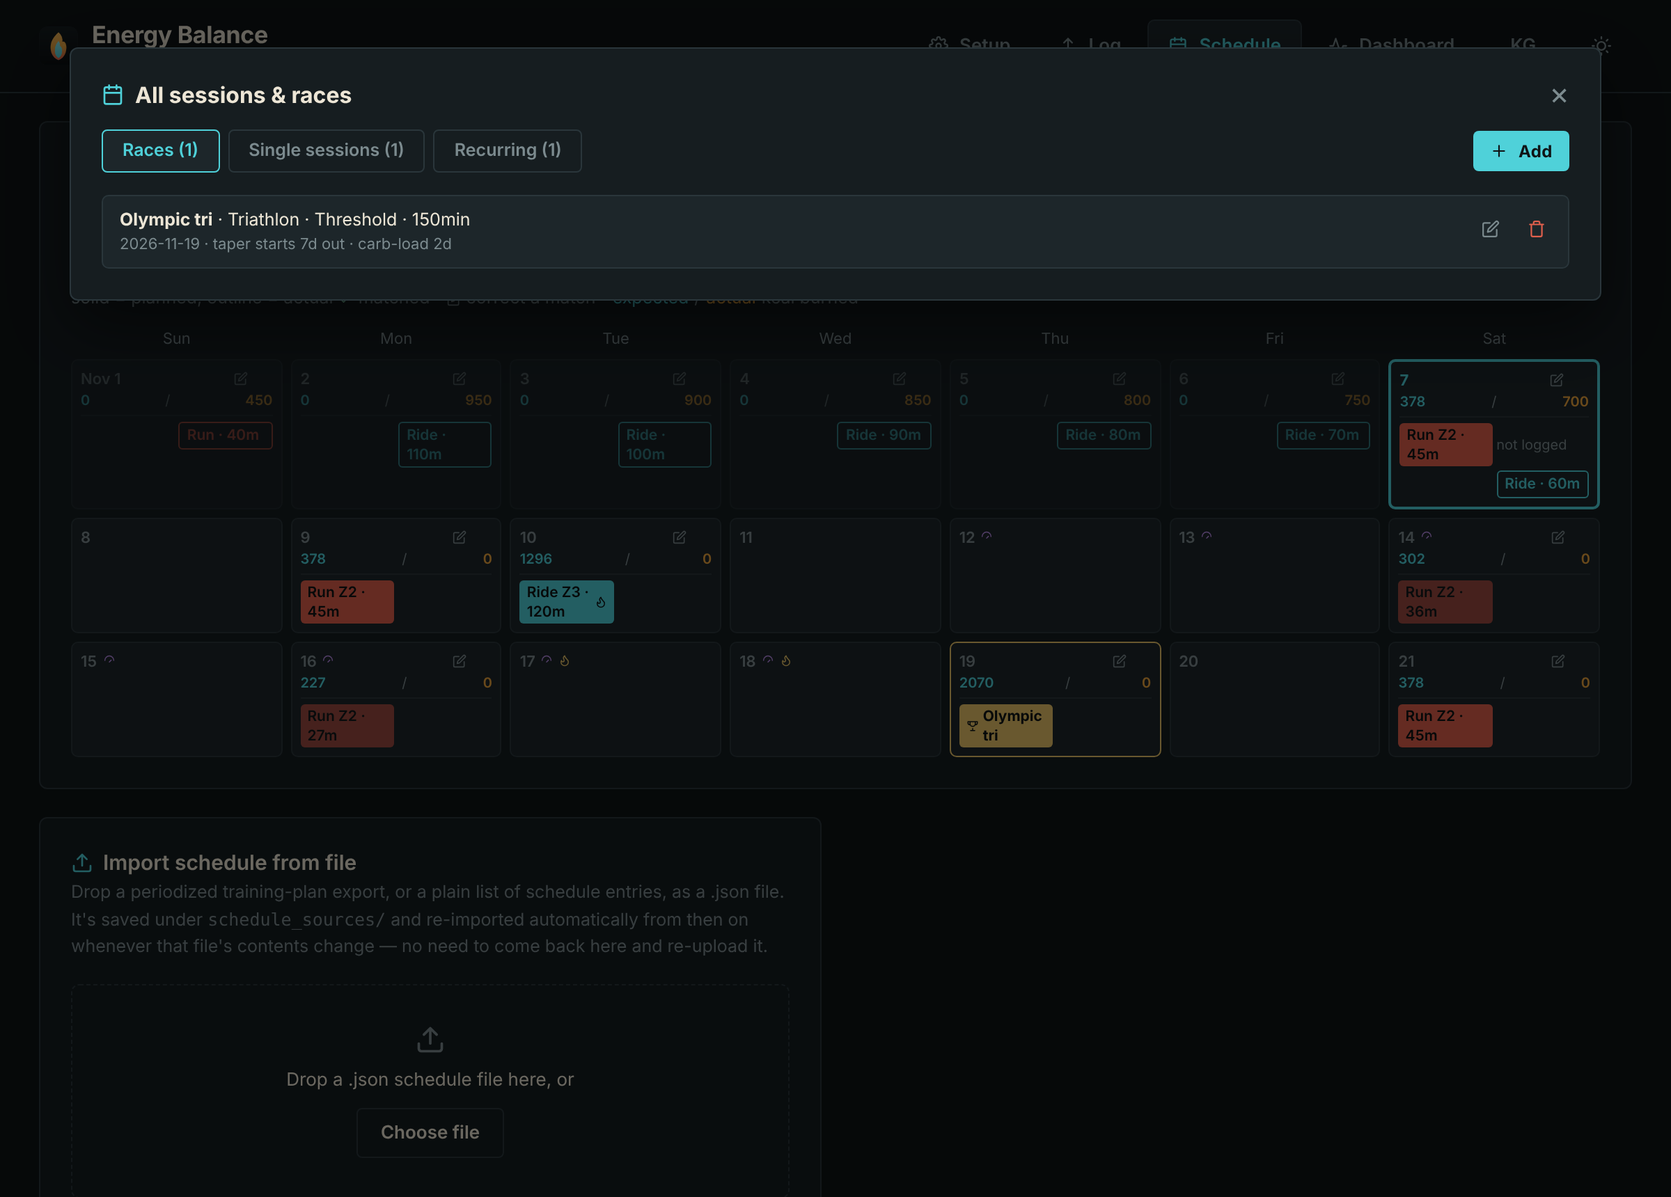
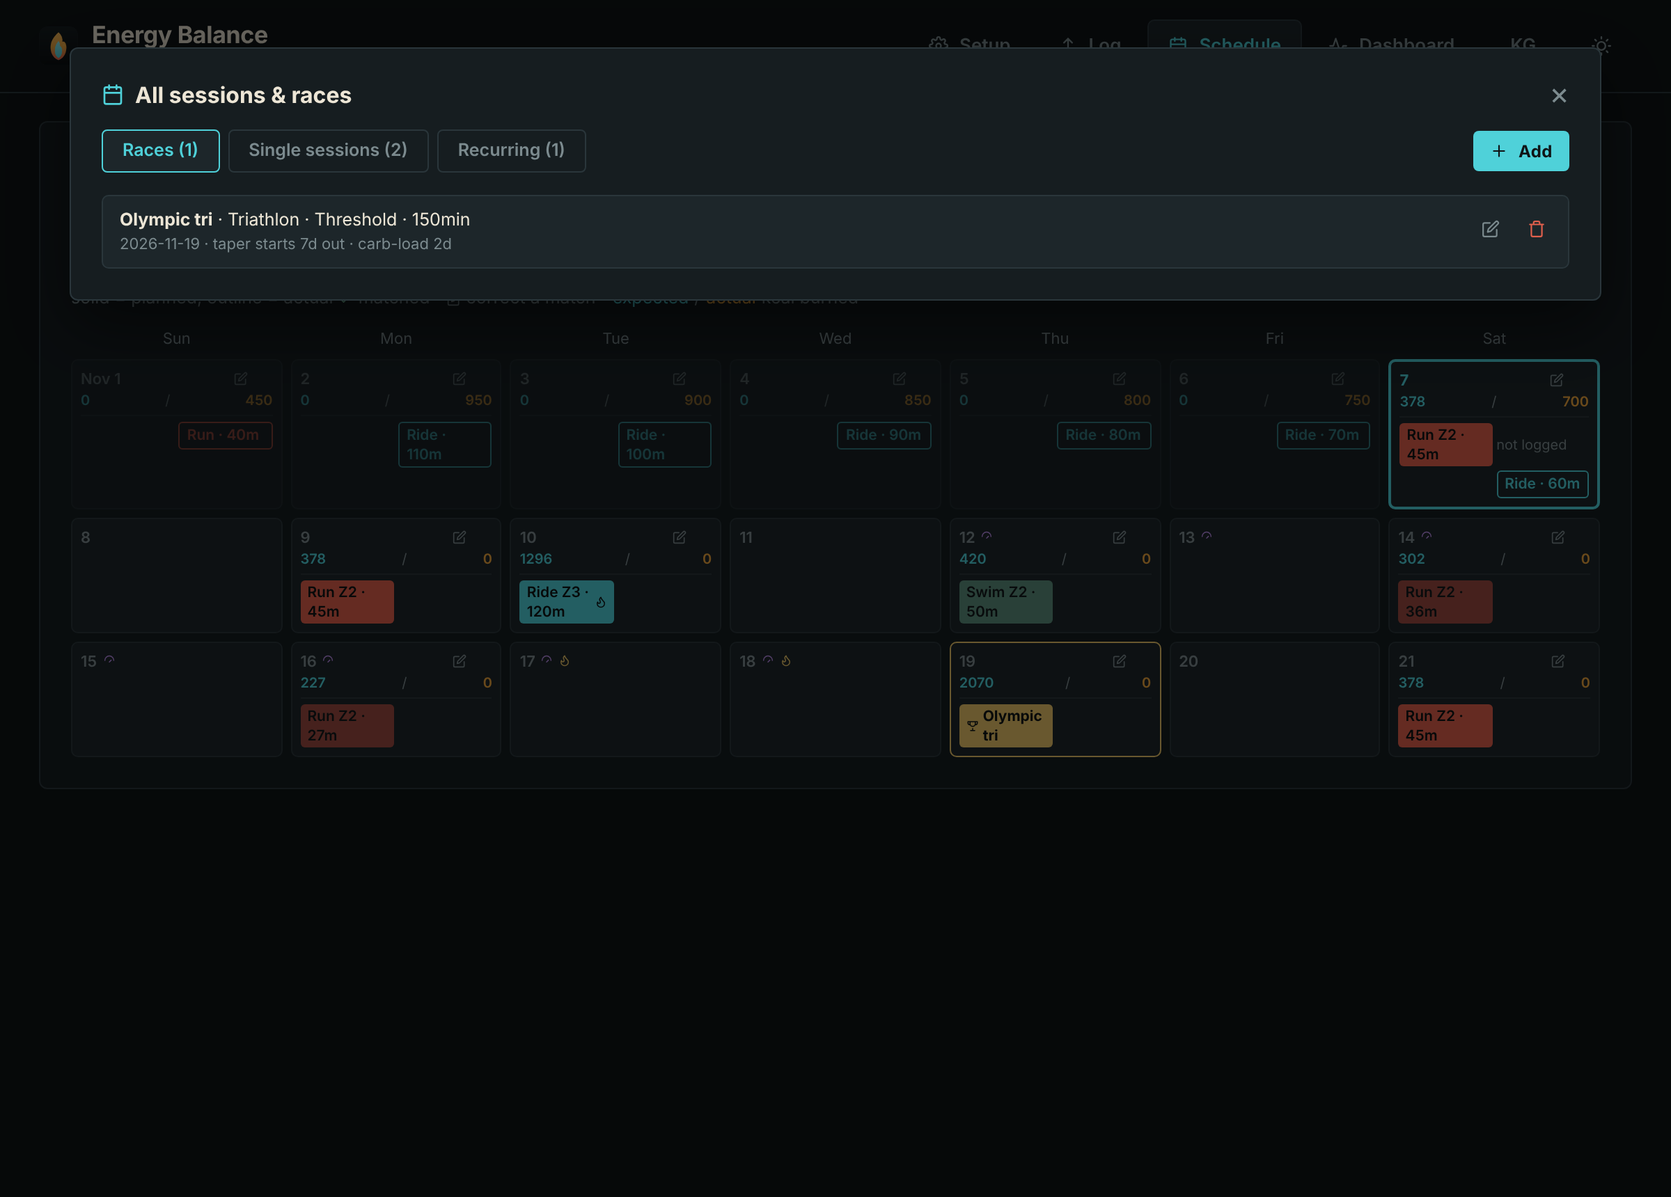
Move schedule import into Setup
The .json training-plan drop zone is now a Setup panel (Import schedule)
instead of a card on the Schedule page, which is now just the calendar.
Refresh the PR screenshots to match.

Claude-Session: https://claude.ai/code/session_016ADyii2jwnd8wXYzD1F69B

diff --git a/src/js/app.js b/src/js/app.js
@@ -1644,7 +1644,10 @@
         fetching: fetching || stravaFetching,
         fetchError,
         rangeDays,
-        setRangeDays
+        setRangeDays,
+        onImportScheduleFile: handleScheduleFile,
+        scheduleImportError,
+        scheduleImportNotice
       }
     ), tab === "import" && /* @__PURE__ */ React.createElement(
       ImportTab,
@@ -1681,9 +1684,6 @@
         onDelete: deleteScheduleEntry,
         stravaData,
         intervalsData,
-        onImportFile: handleScheduleFile,
-        importFileError: scheduleImportError,
-        importFileNotice: scheduleImportNotice,
         matchOverrides,
         onSetMatchOverride: setScheduleMatchOverride,
         profile,
@@ -1862,7 +1862,47 @@
       )
     );
   }
-  function SetupTab({ profile, setProfile, bmr, lastFetched, stravaStatus, stravaError, stravaLastFetched, stravaSyncedCount, intervalsStatus, intervalsSyncedCount, goalParams, trendCorrection, weightTrendAvg, weightGoalStatus, imCal, imCalibrating, imCalError, onRecalibrate, imGoalFloor, onFetch, fetching, fetchError, rangeDays, setRangeDays }) {
+  function ScheduleImportPanel({ onImportFile, importFileError, importFileNotice }) {
+    const [dragOver, setDragOver] = useState(false);
+    return /* @__PURE__ */ React.createElement(React.Fragment, null, /* @__PURE__ */ React.createElement("div", { style: { fontSize: 12.5, color: dim, marginBottom: 16, lineHeight: 1.5 } }, "Drop a periodized training-plan export, or a plain list of schedule entries, as a .json file. It's saved under ", /* @__PURE__ */ React.createElement("code", null, "schedule_sources/"), " and re-imported automatically from then on whenever that file's contents change \u2014 no need to come back here and re-upload it."), /* @__PURE__ */ React.createElement(
+      "div",
+      {
+        onDragOver: (e) => {
+          e.preventDefault();
+          setDragOver(true);
+        },
+        onDragLeave: () => setDragOver(false),
+        onDrop: (e) => {
+          e.preventDefault();
+          setDragOver(false);
+          if (e.dataTransfer.files[0]) onImportFile(e.dataTransfer.files[0]);
+        },
+        style: {
+          border: `1.5px dashed ${dragOver ? cyan : line}`,
+          borderRadius: 6,
+          padding: "28px 20px",
+          textAlign: "center",
+          background: dragOver ? "rgba(79,209,217,0.05)" : "transparent",
+          transition: "all 0.15s"
+        }
+      },
+      /* @__PURE__ */ React.createElement("div", { style: { display: "flex", justifyContent: "center", marginBottom: 10 } }, /* @__PURE__ */ React.createElement(Icon, { path: ICONS.upload, size: 22, color: dim })),
+      /* @__PURE__ */ React.createElement("div", { style: { fontSize: 13, marginBottom: 12 } }, "Drop a .json schedule file here, or"),
+      /* @__PURE__ */ React.createElement("label", { className: "btn-ghost", style: { display: "inline-block" } }, "Choose file", /* @__PURE__ */ React.createElement(
+        "input",
+        {
+          type: "file",
+          accept: ".json,application/json",
+          style: { display: "none" },
+          onChange: (e) => {
+            if (e.target.files[0]) onImportFile(e.target.files[0]);
+            e.target.value = "";
+          }
+        }
+      ))
+    ), importFileError && /* @__PURE__ */ React.createElement(Banner, { kind: "error" }, importFileError), !importFileError && importFileNotice && /* @__PURE__ */ React.createElement(Banner, { kind: "success" }, importFileNotice));
+  }
+  function SetupTab({ profile, setProfile, bmr, lastFetched, stravaStatus, stravaError, stravaLastFetched, stravaSyncedCount, intervalsStatus, intervalsSyncedCount, goalParams, trendCorrection, weightTrendAvg, weightGoalStatus, imCal, imCalibrating, imCalError, onRecalibrate, imGoalFloor, onFetch, fetching, fetchError, rangeDays, setRangeDays, onImportScheduleFile, scheduleImportError, scheduleImportNotice }) {
     var _a, _b, _c;
     const set = (k) => (e) => setProfile((p) => ({ ...p, [k]: e.target.value }));
     const units = profile.units || "metric";
@@ -1904,6 +1944,14 @@
         keywords: "pull fetch days history range strava intervals sync",
         summary: `${rangeDays} days`,
         content: /* @__PURE__ */ React.createElement(React.Fragment, null, /* @__PURE__ */ React.createElement("div", { style: { fontSize: 12.5, color: dim, marginBottom: 16, lineHeight: 1.5 } }, "How many days of history the dashboard covers, and how far back a manual pull reaches into Strava and intervals.icu. Data is cached server-side by date, so a pull only re-fetches today plus any missing days."), /* @__PURE__ */ React.createElement("div", { style: { display: "flex", alignItems: "flex-end", gap: 14, flexWrap: "wrap" } }, /* @__PURE__ */ React.createElement(Field, { label: "Days of training data to pull" }, /* @__PURE__ */ React.createElement("select", { className: "inp", style: { width: 140 }, value: rangeDays, onChange: (e) => setRangeDays(parseInt(e.target.value)) }, /* @__PURE__ */ React.createElement("option", { value: 14 }, "14 days"), /* @__PURE__ */ React.createElement("option", { value: 21 }, "21 days"), /* @__PURE__ */ React.createElement("option", { value: 30 }, "30 days"), /* @__PURE__ */ React.createElement("option", { value: 60 }, "60 days"))), /* @__PURE__ */ React.createElement("button", { className: "btn-primary", onClick: onFetch, disabled: fetching }, /* @__PURE__ */ React.createElement(Icon, { path: ICONS.refresh, size: 13, color: ink }), fetching ? "Fetching\u2026" : "Pull training data")), lastFetched && /* @__PURE__ */ React.createElement("div", { style: { marginTop: 10, fontSize: 11.5, color: dim, fontFamily: mono } }, "intervals last synced ", new Date(lastFetched).toLocaleString()), fetchError && /* @__PURE__ */ React.createElement(Banner, { kind: "error" }, fetchError))
+      },
+      {
+        id: "schedule-import",
+        title: "Import schedule",
+        icon: ICONS.calendar,
+        keywords: "training plan json file upload schedule_sources sessions races",
+        summary: scheduleImportError ? "import failed" : null,
+        content: /* @__PURE__ */ React.createElement(ScheduleImportPanel, { onImportFile: onImportScheduleFile, importFileError: scheduleImportError, importFileNotice: scheduleImportNotice })
       },
       {
         id: "strava",
@@ -2804,9 +2852,6 @@
     onDelete,
     stravaData,
     intervalsData,
-    onImportFile,
-    importFileError,
-    importFileNotice,
     matchOverrides,
     onSetMatchOverride,
     profile,
@@ -2818,7 +2863,6 @@
     const [editor, setEditor] = useState(null);
     const [confirmDelete, setConfirmDelete] = useState(null);
     const [listView, setListView] = useState(null);
-    const [scheduleDragOver, setScheduleDragOver] = useState(false);
     const [editingMatchDay, setEditingMatchDay] = useState(null);
     const showActual = profile.scheduleShowActual !== false;
     const showCalories = profile.scheduleShowCalories !== false;
@@ -3170,43 +3214,7 @@
           }
         ), a.activityType, " \xB7 ", a.durationMin, "m \xB7 ", a.name)))), mode === "auto" && /* @__PURE__ */ React.createElement("div", { style: { fontSize: 10.5, color: dim, marginTop: 4 } }, "Auto-detected", actualNames.length ? ` \u2014 matched to "${actualNames.join('", "')}"` : " \u2014 no match found"));
       }), day.dayActuals.length === 0 && day.pairs.length > 0 && /* @__PURE__ */ React.createElement("div", { style: { fontSize: 11, color: dim } }, "No Strava/intervals.icu activities synced for this day.")));
-    })(), /* @__PURE__ */ React.createElement("div", { className: "card", style: { padding: 22 } }, /* @__PURE__ */ React.createElement("div", { style: { fontFamily: grotesk, fontWeight: 600, fontSize: 15, marginBottom: 4, display: "flex", alignItems: "center", gap: 7 } }, /* @__PURE__ */ React.createElement(Icon, { path: ICONS.upload, size: 16, color: cyan }), " Import schedule from file"), /* @__PURE__ */ React.createElement("div", { style: { fontSize: 12.5, color: dim, marginBottom: 16, lineHeight: 1.5 } }, "Drop a periodized training-plan export, or a plain list of schedule entries, as a .json file. It's saved under ", /* @__PURE__ */ React.createElement("code", null, "schedule_sources/"), " and re-imported automatically from then on whenever that file's contents change \u2014 no need to come back here and re-upload it."), /* @__PURE__ */ React.createElement(
-      "div",
-      {
-        onDragOver: (e) => {
-          e.preventDefault();
-          setScheduleDragOver(true);
-        },
-        onDragLeave: () => setScheduleDragOver(false),
-        onDrop: (e) => {
-          e.preventDefault();
-          setScheduleDragOver(false);
-          if (e.dataTransfer.files[0]) onImportFile(e.dataTransfer.files[0]);
-        },
-        style: {
-          border: `1.5px dashed ${scheduleDragOver ? cyan : line}`,
-          borderRadius: 6,
-          padding: "28px 20px",
-          textAlign: "center",
-          background: scheduleDragOver ? "rgba(79,209,217,0.05)" : "transparent",
-          transition: "all 0.15s"
-        }
-      },
-      /* @__PURE__ */ React.createElement("div", { style: { display: "flex", justifyContent: "center", marginBottom: 10 } }, /* @__PURE__ */ React.createElement(Icon, { path: ICONS.upload, size: 22, color: dim })),
-      /* @__PURE__ */ React.createElement("div", { style: { fontSize: 13, marginBottom: 12 } }, "Drop a .json schedule file here, or"),
-      /* @__PURE__ */ React.createElement("label", { className: "btn-ghost", style: { display: "inline-block" } }, "Choose file", /* @__PURE__ */ React.createElement(
-        "input",
-        {
-          type: "file",
-          accept: ".json,application/json",
-          style: { display: "none" },
-          onChange: (e) => {
-            if (e.target.files[0]) onImportFile(e.target.files[0]);
-            e.target.value = "";
-          }
-        }
-      ))
-    ), importFileError && /* @__PURE__ */ React.createElement(Banner, { kind: "error" }, importFileError), !importFileError && importFileNotice && /* @__PURE__ */ React.createElement(Banner, { kind: "success" }, importFileNotice)), listView && /* @__PURE__ */ React.createElement(Modal, { title: "All sessions & races", onClose: () => setListView(null), icon: ICONS.calendar }, /* @__PURE__ */ React.createElement("div", { style: { display: "flex", gap: 6, marginBottom: 16, flexWrap: "wrap", alignItems: "center" } }, [["races", `Races (${races.length})`], ["single", `Single sessions (${singles.length})`], ["recurring", `Recurring (${recurring.length})`]].map(([id, label]) => /* @__PURE__ */ React.createElement("button", { key: id, className: `subtab ${listView === id ? "active" : ""}`, onClick: () => setListView(id) }, label)), /* @__PURE__ */ React.createElement("button", { className: "btn-primary", onClick: () => openAdd(null), style: { padding: "7px 12px", fontSize: 12, marginLeft: "auto" } }, /* @__PURE__ */ React.createElement(Icon, { path: ICONS.plus, size: 13, color: ink }), " Add")), /* @__PURE__ */ React.createElement(
+    })(), listView && /* @__PURE__ */ React.createElement(Modal, { title: "All sessions & races", onClose: () => setListView(null), icon: ICONS.calendar }, /* @__PURE__ */ React.createElement("div", { style: { display: "flex", gap: 6, marginBottom: 16, flexWrap: "wrap", alignItems: "center" } }, [["races", `Races (${races.length})`], ["single", `Single sessions (${singles.length})`], ["recurring", `Recurring (${recurring.length})`]].map(([id, label]) => /* @__PURE__ */ React.createElement("button", { key: id, className: `subtab ${listView === id ? "active" : ""}`, onClick: () => setListView(id) }, label)), /* @__PURE__ */ React.createElement("button", { className: "btn-primary", onClick: () => openAdd(null), style: { padding: "7px 12px", fontSize: 12, marginLeft: "auto" } }, /* @__PURE__ */ React.createElement(Icon, { path: ICONS.plus, size: 13, color: ink }), " Add")), /* @__PURE__ */ React.createElement(
       ScheduleEntryList,
       {
         entries: listView === "races" ? races : listView === "single" ? singles : recurring,

diff --git a/src/js/app-source.jsx b/src/js/app-source.jsx
@@ -2187,7 +2187,9 @@ function App() {
             imCal={imCal} imCalibrating={imCalibrating} imCalError={imCalError} onRecalibrate={recalibrateIronman}
             imGoalFloor={ironmanStatus ? ironmanStatus.goalFloor : null}
             onFetch={pullAll} fetching={fetching || stravaFetching} fetchError={fetchError}
-            rangeDays={rangeDays} setRangeDays={setRangeDays} />
+            rangeDays={rangeDays} setRangeDays={setRangeDays}
+            onImportScheduleFile={handleScheduleFile} scheduleImportError={scheduleImportError}
+            scheduleImportNotice={scheduleImportNotice} />
         )}
         {tab === "import" && (
           <ImportTab onFile={handleCSVFile} csvPreview={csvPreview} colMap={colMap} setColMap={setColMap}
@@ -2201,8 +2203,7 @@ function App() {
         {tab === "schedule" && (
           <ScheduleTab schedule={schedule} onAdd={addScheduleEntry} onUpdate={updateScheduleEntry}
             onDelete={deleteScheduleEntry} stravaData={stravaData} intervalsData={intervalsData}
-            onImportFile={handleScheduleFile} importFileError={scheduleImportError}
-            importFileNotice={scheduleImportNotice} matchOverrides={matchOverrides}
+            matchOverrides={matchOverrides}
             onSetMatchOverride={setScheduleMatchOverride} profile={profile} setProfile={setProfile}
             weightLog={weightLog} matchedKcalRates={matchedKcalRates} />
         )}
@@ -2377,7 +2378,40 @@ function Modal({ title, onClose, children, icon = ICONS.database, iconColor = cy
   );
 }
 
-function SetupTab({ profile, setProfile, bmr, lastFetched, stravaStatus, stravaError, stravaLastFetched, stravaSyncedCount, intervalsStatus, intervalsSyncedCount, goalParams, trendCorrection, weightTrendAvg, weightGoalStatus, imCal, imCalibrating, imCalError, onRecalibrate, imGoalFloor, onFetch, fetching, fetchError, rangeDays, setRangeDays }) {
+// Drop zone for a training-plan / schedule .json (Setup → Import schedule).
+function ScheduleImportPanel({ onImportFile, importFileError, importFileNotice }) {
+  const [dragOver, setDragOver] = useState(false);
+  return (
+    <>
+      <div style={{ fontSize: 12.5, color: dim, marginBottom: 16, lineHeight: 1.5 }}>
+        Drop a periodized training-plan export, or a plain list of schedule entries, as a .json file.
+        It's saved under <code>schedule_sources/</code> and re-imported automatically from then on
+        whenever that file's contents change — no need to come back here and re-upload it.
+      </div>
+      <div
+        onDragOver={(e) => { e.preventDefault(); setDragOver(true); }}
+        onDragLeave={() => setDragOver(false)}
+        onDrop={(e) => { e.preventDefault(); setDragOver(false); if (e.dataTransfer.files[0]) onImportFile(e.dataTransfer.files[0]); }}
+        style={{
+          border: `1.5px dashed ${dragOver ? cyan : line}`, borderRadius: 6, padding: "28px 20px",
+          textAlign: "center", background: dragOver ? "rgba(79,209,217,0.05)" : "transparent", transition: "all 0.15s",
+        }}
+      >
+        <div style={{ display: "flex", justifyContent: "center", marginBottom: 10 }}><Icon path={ICONS.upload} size={22} color={dim} /></div>
+        <div style={{ fontSize: 13, marginBottom: 12 }}>Drop a .json schedule file here, or</div>
+        <label className="btn-ghost" style={{ display: "inline-block" }}>
+          Choose file
+          <input type="file" accept=".json,application/json" style={{ display: "none" }}
+            onChange={(e) => { if (e.target.files[0]) onImportFile(e.target.files[0]); e.target.value = ""; }} />
+        </label>
+      </div>
+      {importFileError && <Banner kind="error">{importFileError}</Banner>}
+      {!importFileError && importFileNotice && <Banner kind="success">{importFileNotice}</Banner>}
+    </>
+  );
+}
+
+function SetupTab({ profile, setProfile, bmr, lastFetched, stravaStatus, stravaError, stravaLastFetched, stravaSyncedCount, intervalsStatus, intervalsSyncedCount, goalParams, trendCorrection, weightTrendAvg, weightGoalStatus, imCal, imCalibrating, imCalError, onRecalibrate, imGoalFloor, onFetch, fetching, fetchError, rangeDays, setRangeDays, onImportScheduleFile, scheduleImportError, scheduleImportNotice }) {
   const set = (k) => (e) => setProfile((p) => ({ ...p, [k]: e.target.value }));
   const units = profile.units || "metric";
   const [weightText, onWeightChange] = useUnitInput(profile.weightKg, units, kgToDisplay, displayToKg, 1);
@@ -2440,6 +2474,11 @@ function SetupTab({ profile, setProfile, bmr, lastFetched, stravaStatus, stravaE
         {lastFetched && <div style={{ marginTop: 10, fontSize: 11.5, color: dim, fontFamily: mono }}>intervals last synced {new Date(lastFetched).toLocaleString()}</div>}
         {fetchError && <Banner kind="error">{fetchError}</Banner>}
       </>) },
+
+    { id: "schedule-import", title: "Import schedule", icon: ICONS.calendar,
+      keywords: "training plan json file upload schedule_sources sessions races",
+      summary: scheduleImportError ? "import failed" : null,
+      content: <ScheduleImportPanel onImportFile={onImportScheduleFile} importFileError={scheduleImportError} importFileNotice={scheduleImportNotice} /> },
 
     { id: "strava", title: "Strava connection", icon: ICONS.flame, iconColor: amber,
       keywords: "training calories oauth connect",
@@ -3791,12 +3830,11 @@ function ScheduleEntryEditor({ initialForm, isEdit, activityLibrary, onSave, onC
 }
 
 function ScheduleTab({ schedule, onAdd, onUpdate, onDelete, stravaData, intervalsData,
-  onImportFile, importFileError, importFileNotice, matchOverrides, onSetMatchOverride,
+  matchOverrides, onSetMatchOverride,
   profile, setProfile, weightLog, matchedKcalRates }) {
   const [editor, setEditor] = useState(null); // null | { id: string|null, form }
   const [confirmDelete, setConfirmDelete] = useState(null); // null | { planned, dateKey }
   const [listView, setListView] = useState(null); // null | "races" | "single" | "recurring"
-  const [scheduleDragOver, setScheduleDragOver] = useState(false);
   const [editingMatchDay, setEditingMatchDay] = useState(null); // date key, or null
   // Both default on (undefined !== false) so existing profiles pick up the
   // new toggles already enabled — nothing changes until someone opts out.
@@ -4199,35 +4237,6 @@ function ScheduleTab({ schedule, onAdd, onUpdate, onDelete, stravaData, interval
         );
       })()}
 
-      <div className="card" style={{ padding: 22 }}>
-        <div style={{ fontFamily: grotesk, fontWeight: 600, fontSize: 15, marginBottom: 4, display: "flex", alignItems: "center", gap: 7 }}>
-          <Icon path={ICONS.upload} size={16} color={cyan} /> Import schedule from file
-        </div>
-        <div style={{ fontSize: 12.5, color: dim, marginBottom: 16, lineHeight: 1.5 }}>
-          Drop a periodized training-plan export, or a plain list of schedule entries, as a .json file.
-          It's saved under <code>schedule_sources/</code> and re-imported automatically from then on
-          whenever that file's contents change — no need to come back here and re-upload it.
-        </div>
-        <div
-          onDragOver={(e) => { e.preventDefault(); setScheduleDragOver(true); }}
-          onDragLeave={() => setScheduleDragOver(false)}
-          onDrop={(e) => { e.preventDefault(); setScheduleDragOver(false); if (e.dataTransfer.files[0]) onImportFile(e.dataTransfer.files[0]); }}
-          style={{
-            border: `1.5px dashed ${scheduleDragOver ? cyan : line}`, borderRadius: 6, padding: "28px 20px",
-            textAlign: "center", background: scheduleDragOver ? "rgba(79,209,217,0.05)" : "transparent", transition: "all 0.15s",
-          }}
-        >
-          <div style={{ display: "flex", justifyContent: "center", marginBottom: 10 }}><Icon path={ICONS.upload} size={22} color={dim} /></div>
-          <div style={{ fontSize: 13, marginBottom: 12 }}>Drop a .json schedule file here, or</div>
-          <label className="btn-ghost" style={{ display: "inline-block" }}>
-            Choose file
-            <input type="file" accept=".json,application/json" style={{ display: "none" }}
-              onChange={(e) => { if (e.target.files[0]) onImportFile(e.target.files[0]); e.target.value = ""; }} />
-          </label>
-        </div>
-        {importFileError && <Banner kind="error">{importFileError}</Banner>}
-        {!importFileError && importFileNotice && <Banner kind="success">{importFileNotice}</Banner>}
-      </div>
 
       {listView && (
         <Modal title="All sessions & races" onClose={() => setListView(null)} icon={ICONS.calendar}>

diff --git a/CONTEXT.md b/CONTEXT.md
@@ -120,7 +120,8 @@ text filter on top that matches panel titles, per-panel `keywords`, and the pane
 (bodies stay mounted while collapsed, so drafts survive and search can see them). Open/closed state is a
 per-browser preference in `localStorage` (`panels:setup`, `panels:log`), not the server store.
 - Setup: Athlete profile, Training data (the "days of training data to pull" `rangeDays` selector +
-  manual "Pull training data" button), Strava, intervals.icu, Model tuning, Goal, App update.
+  manual "Pull training data" button), Import schedule (the `.json` plan drop zone that writes into
+  `schedule_sources/`), Strava, intervals.icu, Model tuning, Goal, App update.
 - Log: manual macros, weight, MacrosFirst API, CSV import. The stored nutrition / training / weight
   logs live behind the "Stored data…" button (a modal with one tab each). The training tab is
   read-only: every cached Strava + intervals.icu activity, with intervals.icu rows on Strava days dimmed
